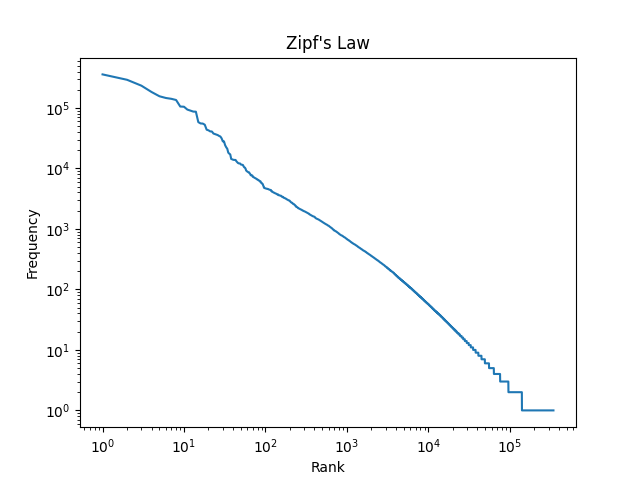
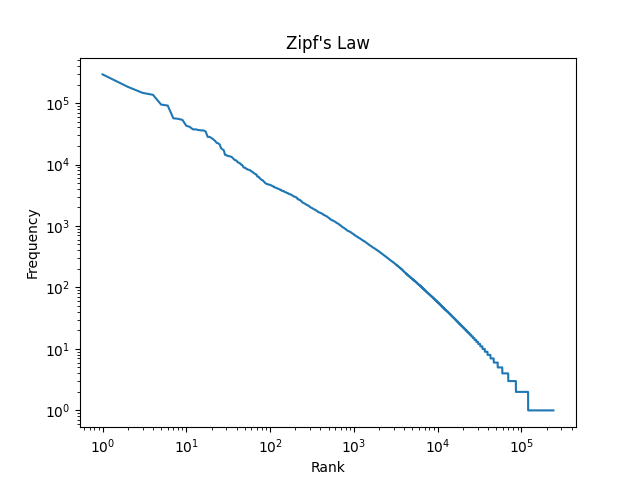
Similar to before, extra features included

diff --git a/A2/Assignment 2 Question 1/src/wikipedia_processing.py b/A2/Assignment 2 Question 1/src/wikipedia_processing.py
@@ -1,24 +1,23 @@
 """
 Author: Herteg Kohar
 """
-from nltk.tokenize import word_tokenize
-from nltk.corpus import stopwords
+from nltk.tokenize import word_tokenize, RegexpTokenizer
+from nltk.corpus import stopwords, PlaintextCorpusReader
 from nltk.stem import PorterStemmer
 from collections import Counter, defaultdict
 import matplotlib.pyplot as plt
 import nltk
-import string
 import json
 import argparse
 import os
+from concurrent.futures import ThreadPoolExecutor, as_completed
+import time
 
 
 def load_articles(path):
     """Load articles from the given path to directory for wikipedia data
-
     Args:
         path (str): Path to directory containing wikipedia data
-
     Returns:
         list[dict]: List of articles
         str: The corpus of all articles
@@ -36,6 +35,139 @@ def load_articles(path):
             all_articles.extend(articles)
         break
     return corpus, all_articles
+
+
+def load_articles_incremented(path, increment):
+    """Load articles from the given path to directory for wikipedia data
+
+    Args:
+        path (str): Path to directory containing wikipedia data
+
+    Returns:
+        list[dict]: List of articles
+        str: The corpus of all articles
+    """
+    file_paths = []
+    for i, file in enumerate(os.listdir(path)):
+        file_paths.append(f"{path}/{file}")
+        if i % increment == 0 and i != 0:
+            yield file_paths
+            file_paths = []
+    yield file_paths
+
+
+def write_article_text(article, path):
+    with open(f"{path}/{article['id']}.txt", "w", encoding="utf-8") as f:
+        f.write(article["text"])
+
+
+def load_article_texts_threaded(path):
+    start = time.time()
+    count = 0
+    if not os.path.exists("article_texts"):
+        os.mkdir("article_texts")
+    for file in os.listdir(path):
+        with open(f"{path}/{file}", encoding="utf-8") as input_file:
+            articles = json.load(input_file)
+            with ThreadPoolExecutor() as executor:
+                futures = [
+                    executor.submit(write_article_text, article, "article_texts")
+                    for article in articles
+                ]
+                for _ in as_completed(futures):
+                    pass
+        count += 1
+        print("Finished file: ", count)
+    end = time.time()
+    print(f"Time taken: {end - start}")
+
+
+def load_corpus(path):
+    fileids = os.listdir(path)
+    corpus = PlaintextCorpusReader(path, fileids, encoding="utf-8")
+    return corpus
+
+
+def tokenize_generator(tokenizer, text):
+    for token in tokenizer.tokenize(text):
+        yield token
+
+
+def tokenize_threaded(corpus):
+    start = time.time()
+    count = 0
+    chunk_size = 10000
+    max_workers = os.cpu_count()
+    tokenizer = RegexpTokenizer(r"\w+")
+    futures = []
+    with open("wikipedia.token", "a", encoding="utf-8") as f:
+        with ThreadPoolExecutor(max_workers=max_workers) as executor:
+            for i, fileid in enumerate(corpus.fileids()):
+                if (i + 1) % chunk_size == 0:
+                    # If memory error write to file here
+                    for future in as_completed(futures):
+                        for token in future.result():
+                            f.write(token)
+                            f.write("\n")
+                    count += 1
+                    print("Finished chunk: ", count)
+                    futures = []
+                futures.append(
+                    executor.submit(tokenize_generator, tokenizer, corpus.raw(fileid))
+                )
+            print("Last chunk")
+            if futures:
+                for future in as_completed(futures):
+                    for token in future.result():
+                        f.write(token)
+                        f.write("\n")
+                futures.clear()
+    end = time.time()
+    print(f"Time taken: {end - start}")
+
+
+def stemming_generator(porter_stemmer, tokenizer, text):
+    for token in tokenize_generator(tokenizer, text):
+        yield porter_stemmer.stem(token)
+
+
+def tokenize_and_stemm_threaded(corpus):
+    start = time.time()
+    count = 0
+    chunk_size = 10000
+    max_workers = os.cpu_count()
+    porter_stemmer = PorterStemmer()
+    futures = []
+    tokenizer = RegexpTokenizer(r"\w+")
+    with open("wikipedia.token.stemm", "a", encoding="utf-8") as f:
+        with ThreadPoolExecutor(max_workers=max_workers) as executor:
+            for i, fileid in enumerate(corpus.fileids()):
+                if (i + 1) % chunk_size == 0:
+                    # If memory error write to file here
+                    for future in as_completed(futures):
+                        for token in future.result():
+                            f.write(token)
+                            f.write("\n")
+                    count += 1
+                    print("Finished chunk: ", count)
+                    futures = []
+                futures.append(
+                    executor.submit(
+                        stemming_generator,
+                        porter_stemmer,
+                        tokenizer,
+                        corpus.raw(fileid),
+                    )
+                )
+            print("Last chunk")
+            if futures:
+                for future in as_completed(futures):
+                    for token in future.result():
+                        f.write(token)
+                        f.write("\n")
+                futures.clear()
+    end = time.time()
+    print(f"Time taken: {end - start}")
 
 
 def plot_zipfs(tokens):
@@ -58,9 +190,11 @@ def plot_zipfs(tokens):
     return
 
 
-def tokenize_corpus(tokens):
-    with open("wikipedia.token", "w", encoding="utf-8") as f:
-        f.write(" ".join(tokens))
+def save_tokenized_corpus(tokens):
+    with open("wikipedia.token", "a", encoding="utf-8") as f:
+        for token in tokens:
+            f.write(token)
+            f.write("\n")
     return
 
 
@@ -70,10 +204,11 @@ def remove_stop_words(tokens):
     Args:
         tokens (list[str]): List of tokens from the corpus
     """
-    stop_words = set(stopwords.words("english") + list(string.punctuation))
+    stop_words = set(stopwords.words("english"))
     filtered_tokens = [token for token in tokens if not token.lower() in stop_words]
-    with open("wikipedia.token.stop", "w", encoding="utf-8") as f:
+    with open("wikipedia.token.stop", "a", encoding="utf-8") as f:
         f.write(" ".join(filtered_tokens))
+        f.write("\n")
     return
 
 
@@ -85,8 +220,9 @@ def stemming(tokens):
     """
     porter_stemmer = PorterStemmer()
     stemmed_words = [porter_stemmer.stem(token) for token in tokens]
-    with open("wikipedia.token.stemm", "w", encoding="utf-8") as f:
+    with open("wikipedia.token.stemm", "a", encoding="utf-8") as f:
         f.write(" ".join(stemmed_words))
+        f.write("\n")
     return
 
 
@@ -108,6 +244,105 @@ def create_inverted_index(articles):
     with open("inverted_index.json", "w", encoding="utf-8") as f:
         json.dump(inverted_index, f)
     return inverted_index
+
+
+def open_and_create_corpus(path):
+    with open(path, "r", encoding="utf-8") as f:
+        articles = json.load(f)
+        corpus = " ".join([article["text"] for article in articles])
+        tokens = word_tokenize(corpus)
+    return tokens
+
+
+def open_and_create_corpus_threaded(path, max_workers):
+    with open(path, "r", encoding="utf-8") as f:
+        articles = json.load(f)
+        with ThreadPoolExecutor(max_workers=max_workers) as executor:
+            futures = [
+                executor.submit(word_tokenize, article["text"]) for article in articles
+            ]
+            for future in as_completed(futures):
+                yield future.result()
+
+
+def tokenize_and_stem(text, porter_stemmer):
+    for token in word_tokenize(text):
+        yield porter_stemmer.stem(token)
+
+
+def stemming_threaded(path, porter_stemmer, max_workers):
+    with open(path, "r", encoding="utf-8") as f:
+        articles = json.load(f)
+        with ThreadPoolExecutor(max_workers=max_workers) as executor:
+            futures = [
+                executor.submit(tokenize_and_stem, article["text"], porter_stemmer)
+                for article in articles
+            ]
+            for future in as_completed(futures):
+                yield future.result()
+
+
+def perform_tasks_threaded(**kwargs):
+    if kwargs["tokenize"]:
+        count = 0
+        max_workers = 3
+        start = time.time()
+        with open("wikipedia.token", "a", encoding="utf-8") as f:
+            for file_paths in load_articles_incremented("data_wikipedia", max_workers):
+                with ThreadPoolExecutor(max_workers=max_workers) as executor:
+                    futures = [
+                        executor.submit(
+                            open_and_create_corpus_threaded, path, max_workers + 1
+                        )
+                        for path in file_paths
+                    ]
+                    for future in as_completed(futures):
+                        count += 1
+                        for token in future.result():
+                            f.write(token)
+                            f.write("\n")
+                        print("Processed", count, "files")
+        print("Tokenized corpus in", time.time() - start, "seconds")
+    if kwargs["stemming"]:
+        # Don't open the file just tokenize and stem in the multi-level threading (second level)
+        # Opening token file makes it too slow
+        porter_stemmer = PorterStemmer()
+        max_workers = 3
+        count = 0
+        start = time.time()
+        with open("wikipedia.token.stemm", "a", encoding="utf-8") as f:
+            for file_paths in load_articles_incremented("data_wikipedia", max_workers):
+                with ThreadPoolExecutor(max_workers=max_workers) as executor:
+                    futures = [
+                        executor.submit(
+                            stemming_threaded, path, porter_stemmer, max_workers + 1
+                        )
+                        for path in file_paths
+                    ]
+                    for future in as_completed(futures):
+                        count += 1
+                        for token in future.result():
+                            f.write(" ".join(token))
+                            f.write("\n")
+                        print("Processed", count, "files")
+        end = time.time()
+        print("Time taken for stemming:", end - start)
+
+        # print("Processing", len(articles), "articles")
+        # for article in articles:
+        #     tokens = word_tokenize(article["text"])
+        #     if kwargs["stopwords"]:
+        #         remove_stop_words(tokens)
+        #     if kwargs["tokenize"]:
+        #         tokenize_corpus(tokens)
+        #     if kwargs["stemming"]:
+        #         stemming(tokens)
+        # count += len(articles)
+        # print("Processed", count, "articles")
+    # if kwargs["invertedindex"]:
+    #     create_inverted_index(all_articles)
+    # if kwargs["zipf"]:
+    #     plot_zipfs(tokens)
 
 
 if __name__ == "__main__":
@@ -150,23 +385,41 @@ if __name__ == "__main__":
         required=False,
     )
     args = parser.parse_args()
-    corpus, all_articles = load_articles("wikipedia_data")
-    tokens = word_tokenize(corpus)
+    # Clear token files
+    if args.tokenize:
+        with open("wikipedia.token", "w", encoding="utf-8") as f:
+            pass
+    if args.stopwords:
+        with open("wikipedia.token.stop", "w", encoding="utf-8") as f:
+            pass
+    if args.stemming:
+        with open("wikipedia.token.stemm", "w", encoding="utf-8") as f:
+            pass
+    # print("Loading corpus")
+    # start = time.time()
+    # corpus = load_corpus("article_texts")
+    # end = time.time()
+    # print("Time taken to load corpus:", end - start)
+    corpus, all_articles = load_articles("data_wikipedia")
+    tokens = RegexpTokenizer(r"\w+").tokenize(corpus)
     if args.stopwords:
         print("Removing stopwords")
         nltk.download("stopwords")
-        stop_words = set(stopwords.words("english"))
         remove_stop_words(tokens)
-    if args.zipf:
-        print("Plotting Zipf's Law")
-        plot_zipfs(tokens)
+        print("Saved corpus without stopwords to wikipedia.token.stop")
     if args.tokenize:
         print("Tokenizing corpus")
-        tokenize_corpus(tokens)
+        save_tokenized_corpus(tokens)
+        print("Saved tokenized corpus to wikipedia.token")
     if args.stemming:
         print("Applying stemming")
         nltk.download("punkt")
         stemming(tokens)
+        print("Saved stemmed corpus to wikipedia.token.stemm")
     if args.invertedindex:
         print("Creating inverted index")
         create_inverted_index(all_articles)
+        print("Saved inverted index to inverted_index.json")
+    if args.zipf:
+        print("Plotting Zipf's Law")
+        plot_zipfs(tokens)
